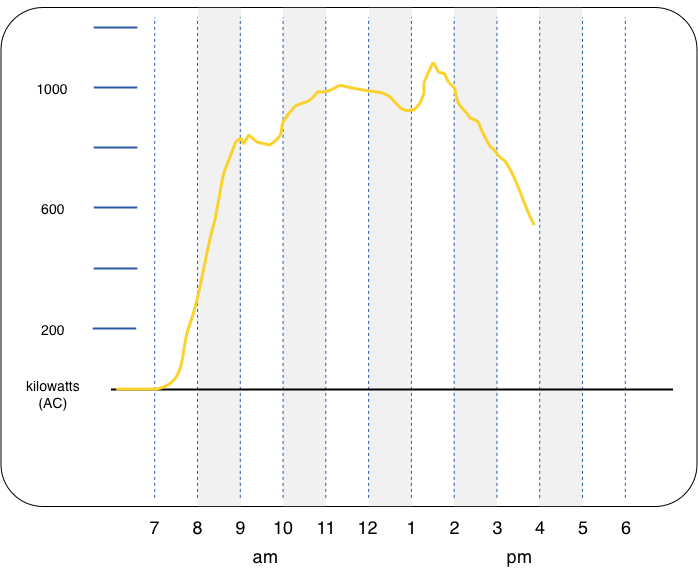
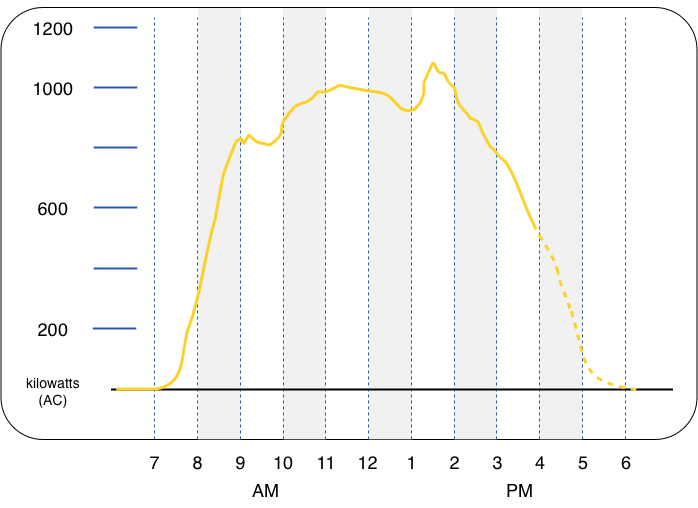
Updated images and titles on grid operator portal

diff --git a/src/app/goperator/goperator.component.html b/src/app/goperator/goperator.component.html
@@ -7,7 +7,7 @@
   <div class="dash">
     <div class="alert">
       <p>Current Alerts:</p>
-      <p>No existing alerts</p>
+      <p style="text-decoration: underline;">No existing alerts</p>
     </div>
     <hr>
     <div class="generation">
@@ -20,6 +20,9 @@
     <div class="supplygraphs">
       <p>Today's Solar PV Generation</p>
       <img src="../../assets/Supply Graph.png" alt="">
+      <br>
+      <p>Today's Retail Consumption</p>
+      <img src="../../assets/Demand Graph2.png" alt="">
     </div>
 <hr>
     <div>

diff --git a/src/app/goperator/goperator.component.scss b/src/app/goperator/goperator.component.scss
@@ -56,10 +56,10 @@ h1 {
     width: 90%;
     height: auto;
     text-align: center;
-    margin: 0.2em auto;
+    margin: 0em auto;
 
     img {
         width: 100%;
-        margin: 0.2em auto;
+        margin: 0em auto;
     }
 }
